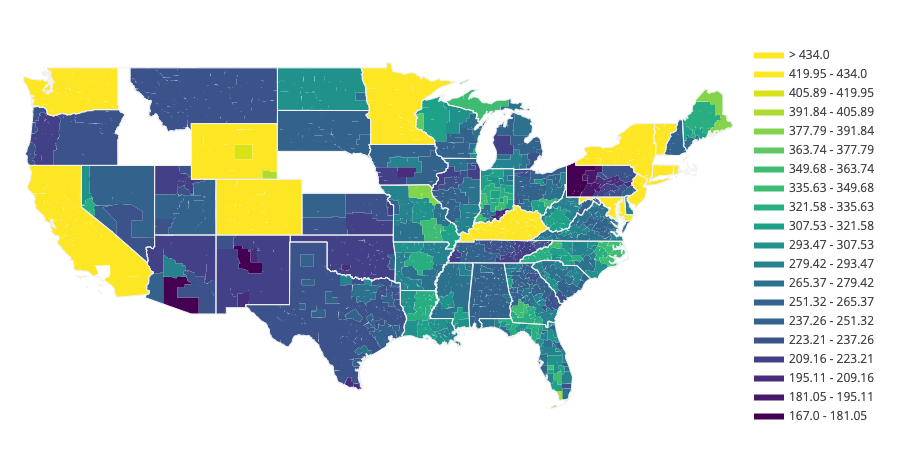
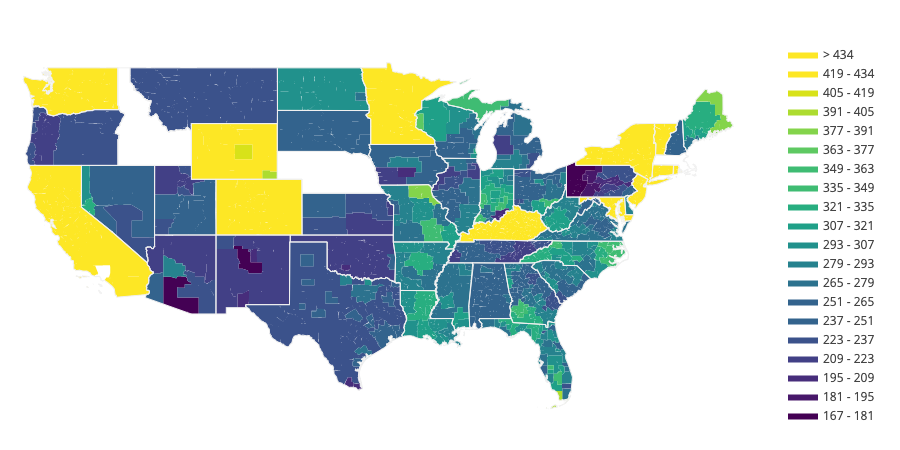
More 'just for fun': Round legend values to integers in the plot.

Changed region(s): [[0.84, 0.0933, 0.9956, 0.9333]]

diff --git a/README.md b/README.md
@@ -196,7 +196,7 @@ results_df = slcsp.process_rates(None, plans_df, zips_df)
 r = results_df.dropna()
 r = r.drop_duplicates(subset=['fips'])
 binning_endpoints=list(np.mgrid[r.rate.min():r.rate.max():20j])
-fig = ff.create_choropleth(fips=r.fips, values=r.rate, binning_endpoints=endpoints)
+fig = ff.create_choropleth(fips=r.fips, values=r.rate, binning_endpoints=endpoints, round_legend_values=True)
 fig.layout.template = None
 fig.show()
 ```
